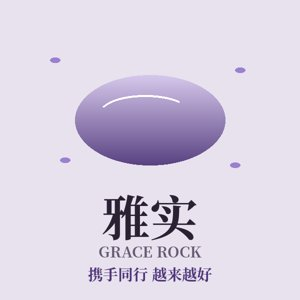
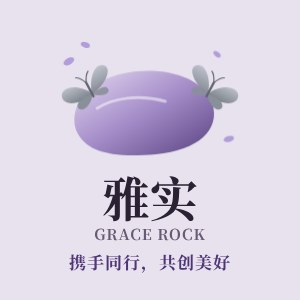
Slogan: 携手同行，共创美好 across site and share images (#48)
Claude-Session: https://claude.ai/code/session_0184zThXmo83xLtuRyd9kJgT

diff --git a/preview/index.html b/preview/index.html
@@ -3,18 +3,18 @@
 <meta property="og:type" content="website">
 <meta property="og:site_name" content="雅实 Grace Rock Group">
 <meta property="og:locale" content="zh_CN">
-<meta property="og:title" content="雅实 Grace Rock Group · 携手同行，共见美好">
+<meta property="og:title" content="雅实 Grace Rock Group · 携手同行，共创美好">
 <meta property="og:description" content="Grace 亲自体验过的好商家和亲子活动。联系合作商家时可提供推荐码 GraceRock。">
 <meta property="og:url" content="https://gracerock.com.au/preview/">
-<meta property="og:image" content="https://gracerock.com.au/preview/og-cover.jpg">
-<meta property="og:image:secure_url" content="https://gracerock.com.au/preview/og-cover.jpg">
+<meta property="og:image" content="https://gracerock.com.au/preview/og-cover.jpg?v=2">
+<meta property="og:image:secure_url" content="https://gracerock.com.au/preview/og-cover.jpg?v=2">
 <meta property="og:image:type" content="image/jpeg">
 <meta property="og:image:width" content="1200">
 <meta property="og:image:height" content="630">
 <meta property="og:image:alt" content="雅实 Grace Rock">
 <meta name="twitter:card" content="summary_large_image">
 <meta name=viewport content="width=device-width,initial-scale=1,viewport-fit=cover"><meta name="robots" content="noindex">
-<title>雅实 Grace Rock Group · 携手同行，共见美好</title><style>:root{color-scheme:light;box-sizing:border-box;padding-top:env(safe-area-inset-top,0px);padding-bottom:env(safe-area-inset-bottom,0px)}html{scroll-padding-top:env(safe-area-inset-top,0px)}body{margin:0;padding:0;font:14px -apple-system,BlinkMacSystemFont,sans-serif;background:#fff;color:#000}img{max-width:100%}[hidden]:not([hidden=until-found i]){display:none!important}</style></head><body>
+<title>雅实 Grace Rock Group · 携手同行，共创美好</title><style>:root{color-scheme:light;box-sizing:border-box;padding-top:env(safe-area-inset-top,0px);padding-bottom:env(safe-area-inset-bottom,0px)}html{scroll-padding-top:env(safe-area-inset-top,0px)}body{margin:0;padding:0;font:14px -apple-system,BlinkMacSystemFont,sans-serif;background:#fff;color:#000}img{max-width:100%}[hidden]:not([hidden=until-found i]){display:none!important}</style></head><body>
 <img src="thumb.jpg" alt="" style="display:none">
 
 <meta name="claude:viewport-fit-sides" content="cover">
@@ -248,7 +248,7 @@ h3.group .no{clip-path:none;border-radius:50%;width:34px;height:34px}
     </svg>
     <span>亲自带队</span></div>
     <h1>雅实<small>Grace Rock Group</small></h1>
-    <p class="slogan">携手同行，共见美好</p>
+    <p class="slogan">携手同行，共创美好</p>
     <p class="motto">Together We Flourish</p>
     <p class="pos"><span style="white-space:nowrap">亲自体验、亲自带队的</span><br><span style="white-space:nowrap">悉尼华人家庭生活圈</span></p>
     <p class="founder">创始人 Grace Lei Zhang</p>
@@ -256,7 +256,7 @@ h3.group .no{clip-path:none;border-radius:50%;width:34px;height:34px}
     <p class="founder" style="margin-top:10px"><a href="join.html" style="color:inherit">免费加入会员 · 商家 · 志愿者 ›</a></p>
   </header>
 
-  <section class="hc" aria-roledescription="carousel" aria-label="精选推荐"><div class="hc-track"><div class="hc-s hc-s1"><span class="k">11 月 28 日 · 周六</span><p class="big">正式开业</p><p class="sub">雅实 Grace Rock 携手同行，共见美好</p><a class="btn" href="https://wa.me/61410931872?text=%E4%BD%A0%E5%A5%BD%20Grace%EF%BC%8C%E6%88%91%E6%83%B3%E5%8F%82%E5%8A%A0%2011%20%E6%9C%88%2028%20%E6%97%A5%E9%9B%85%E5%AE%9E%E5%BC%80%E4%B8%9A%E6%B4%BB%E5%8A%A8" target="_blank" rel="noopener">预约参加</a></div><div class="hc-s hc-s2"><span class="k">免费加入</span><p class="big">加入会员</p><p class="sub">消费攒积分，多家商家通用</p><a class="btn" href="join.html">免费加入</a></div><div class="hc-s hc-s3"><span class="k">本周公益 · 11 月 21 日 周六</span><p class="big">植物展</p><p class="sub">Burwood 食虫植物展 · 9:00–15:00</p><a class="btn" href="events/plant-fair.html">看详情</a></div></div><button type="button" class="hc-arr hc-prev" aria-label="上一张">‹</button><button type="button" class="hc-arr hc-next" aria-label="下一张">›</button><div class="hc-dots"></div></section>
+  <section class="hc" aria-roledescription="carousel" aria-label="精选推荐"><div class="hc-track"><div class="hc-s hc-s1"><span class="k">11 月 28 日 · 周六</span><p class="big">正式开业</p><p class="sub">雅实 Grace Rock 携手同行，共创美好</p><a class="btn" href="https://wa.me/61410931872?text=%E4%BD%A0%E5%A5%BD%20Grace%EF%BC%8C%E6%88%91%E6%83%B3%E5%8F%82%E5%8A%A0%2011%20%E6%9C%88%2028%20%E6%97%A5%E9%9B%85%E5%AE%9E%E5%BC%80%E4%B8%9A%E6%B4%BB%E5%8A%A8" target="_blank" rel="noopener">预约参加</a></div><div class="hc-s hc-s2"><span class="k">免费加入</span><p class="big">加入会员</p><p class="sub">消费攒积分，多家商家通用</p><a class="btn" href="join.html">免费加入</a></div><div class="hc-s hc-s3"><span class="k">本周公益 · 11 月 21 日 周六</span><p class="big">植物展</p><p class="sub">Burwood 食虫植物展 · 9:00–15:00</p><a class="btn" href="events/plant-fair.html">看详情</a></div></div><button type="button" class="hc-arr hc-prev" aria-label="上一张">‹</button><button type="button" class="hc-arr hc-next" aria-label="下一张">›</button><div class="hc-dots"></div></section>
 
   <section id="events">
     <h2>近期活动</h2>

diff --git a/index.html b/index.html
@@ -1,15 +1,15 @@
 <!doctype html>
 <html><head><meta charset="utf-8">
 <meta name="viewport" content="width=device-width,initial-scale=1">
-<title>雅实 Grace Rock Group · 携手同行，共见美好</title>
+<title>雅实 Grace Rock Group · 携手同行，共创美好</title>
 <meta name="description" content="Grace 亲自体验过的好商家和亲子活动。联系合作商家时可提供推荐码 GraceRock。">
 <meta property="og:type" content="website">
 <meta property="og:site_name" content="雅实 Grace Rock Group">
 <meta property="og:locale" content="zh_CN">
-<meta property="og:title" content="雅实 Grace Rock Group · 携手同行，共见美好">
+<meta property="og:title" content="雅实 Grace Rock Group · 携手同行，共创美好">
 <meta property="og:description" content="Grace 亲自体验过的好商家和亲子活动。联系合作商家时可提供推荐码 GraceRock。">
-<meta property="og:image" content="https://gracerock.com.au/preview/og-cover.jpg">
-<meta property="og:image:secure_url" content="https://gracerock.com.au/preview/og-cover.jpg">
+<meta property="og:image" content="https://gracerock.com.au/preview/og-cover.jpg?v=2">
+<meta property="og:image:secure_url" content="https://gracerock.com.au/preview/og-cover.jpg?v=2">
 <meta property="og:image:type" content="image/jpeg">
 <meta property="og:image:width" content="1200">
 <meta property="og:image:height" content="630">
@@ -19,4 +19,4 @@
 <link rel="canonical" href="https://gracerock.com.au/preview/">
 <meta http-equiv="refresh" content="0; url=preview/">
 <script>location.replace("preview/"+location.search+location.hash);</script>
-</head><body><p><a href="preview/">雅实 Grace Rock Group · 携手同行，共见美好</a></p></body></html>
+</head><body><p><a href="preview/">雅实 Grace Rock Group · 携手同行，共创美好</a></p></body></html>

diff --git a/preview/events/jingxin-spring.html b/preview/events/jingxin-spring.html
@@ -9,7 +9,7 @@
 <meta property="og:title" content="蓝花楹下 · 心聚同行｜静心学堂春日户外团建">
 <meta property="og:description" content="11月8日（周日）10:30–15:30，Parramatta Park Wistaria Gardens。和 Grace 一起去。">
 <meta property="og:url" content="https://gracerock.com.au/preview/events/jingxin-spring.html">
-<meta property="og:image" content="https://gracerock.com.au/preview/og-cover.jpg">
+<meta property="og:image" content="https://gracerock.com.au/preview/og-cover.jpg?v=2">
 <meta name="viewport" content="width=device-width, initial-scale=1, viewport-fit=cover">
 <title>蓝花楹下 · 心聚同行｜静心学堂春日户外团建</title>
 <style>
@@ -61,7 +61,7 @@ details ul{margin:6px 0 0;padding-left:18px;color:var(--sub);font-size:14px;line
     <a class="btn" href="https://wa.me/61410931872?text=%E4%BD%A0%E5%A5%BD%20Grace%EF%BC%8C%E6%88%91%E6%83%B3%E5%92%8C%E4%BD%A0%E4%B8%80%E8%B5%B7%E5%8F%82%E5%8A%A0%2011%E6%9C%888%E6%97%A5%EF%BC%88%E5%91%A8%E6%97%A5%EF%BC%89%E9%9D%99%E5%BF%83%E5%AD%A6%E5%A0%82%E8%93%9D%E8%8A%B1%E6%A5%B9%E5%9B%A2%E5%BB%BA%E6%B4%BB%E5%8A%A8%EF%BC%88Grace%20Rock%20%E6%8E%A8%E8%8D%90%EF%BC%89%E3%80%82%E6%88%91%E4%BB%AC%20__%20%E4%BA%BA%E3%80%82" target="_blank" rel="noopener">和 Grace 一起去 · WhatsApp</a>
     <p style="font-size:13px;margin-top:10px">报名时请告知您由 Grace Rock 推荐。</p>
   </div>
-  <footer>© Grace Rock Group · 携手同行，共见美好</footer>
+  <footer>© Grace Rock Group · 携手同行，共创美好</footer>
 </main>
 </body>
 </html>

diff --git a/preview/en.html b/preview/en.html
@@ -6,8 +6,8 @@
 <meta property="og:title" content="Grace Rock Group · Together We Flourish">
 <meta property="og:description" content="Local businesses Grace has tried herself, plus family adventures. Mention referral code GraceRock when contacting our partners.">
 <meta property="og:url" content="https://gracerock.com.au/preview/en.html">
-<meta property="og:image" content="https://gracerock.com.au/preview/og-cover.jpg">
-<meta property="og:image:secure_url" content="https://gracerock.com.au/preview/og-cover.jpg">
+<meta property="og:image" content="https://gracerock.com.au/preview/og-cover.jpg?v=2">
+<meta property="og:image:secure_url" content="https://gracerock.com.au/preview/og-cover.jpg?v=2">
 <meta property="og:image:type" content="image/jpeg">
 <meta property="og:image:width" content="1200">
 <meta property="og:image:height" content="630">
@@ -251,7 +251,7 @@ h3.group .no{clip-path:none;border-radius:50%;width:34px;height:34px}
     <span>Led in person</span></div>
     <h1 class="en-brand">Grace Rock Group<small>雅实</small></h1>
     <p class="slogan">Together We Flourish</p>
-    <p class="motto">携手同行，共见美好</p>
+    <p class="motto">携手同行，共创美好</p>
     <p class="pos">A Sydney family community, with every experience tried and led by Grace Lei Zhang</p>
     <p class="founder">Founder: Grace Lei Zhang</p>
     <div class="acts"><a class="pri" href="#events">Upcoming events</a><a href="#partners">Find a recommended business</a><a href="#contact">Business enquiries</a></div>

diff --git a/preview/join.html b/preview/join.html
@@ -9,7 +9,7 @@
 <meta property="og:title" content="加入雅实 · 会员规则">
 <meta property="og:description" content="免费加入雅实 Grace Rock：做会员、做合作商家或做志愿者。积分只来自真实消费，规则全部公开。">
 <meta property="og:url" content="https://gracerock.com.au/preview/join.html">
-<meta property="og:image" content="https://gracerock.com.au/preview/og-cover.jpg">
+<meta property="og:image" content="https://gracerock.com.au/preview/og-cover.jpg?v=2">
 <meta name="viewport" content="width=device-width, initial-scale=1, viewport-fit=cover">
 <title>加入雅实 · 会员规则</title>
 <style>
@@ -76,7 +76,7 @@ footer{text-align:center;font-size:13px;color:var(--sub);margin-top:32px}
     <p class="brand">雅实 GRACE ROCK GROUP</p>
   </div>
   <h1>加入雅实</h1>
-  <p class="lead">携手同行，共见美好。免费加入，规则全部公开。</p>
+  <p class="lead">携手同行，共创美好。免费加入，规则全部公开。</p>
   <p style="text-align:center"><span class="trial">会员积分 · 试运行中</span></p>
 
   <h2>1. 选择你的身份</h2>
@@ -155,7 +155,7 @@ footer{text-align:center;font-size:13px;color:var(--sub);margin-top:32px}
     </form>
   </div>
 
-  <footer>雅实 Grace Rock Group · 携手同行，共见美好<br><a href="./">返回首页</a></footer>
+  <footer>雅实 Grace Rock Group · 携手同行，共创美好<br><a href="./">返回首页</a></footer>
 </main>
 <script>
 (function(){

diff --git a/preview/partners/wooof.html b/preview/partners/wooof.html
@@ -12,8 +12,8 @@
 <meta property="og:title" content="WOOOF Dog Grooming · 雅实 Grace Rock 推荐">
 <meta property="og:description" content="WOOOF Dog Grooming：Surry Hills 精品狗狗美容，全犬种全体型，天然产品、低压力环境。专属优惠码 REF-QKSR5Q，首次美容享优惠。">
 <meta property="og:url" content="https://gracerock.com.au/preview/partners/wooof.html">
-<meta property="og:image" content="https://gracerock.com.au/preview/og-cover.jpg">
-<meta property="og:image:secure_url" content="https://gracerock.com.au/preview/og-cover.jpg">
+<meta property="og:image" content="https://gracerock.com.au/preview/og-cover.jpg?v=2">
+<meta property="og:image:secure_url" content="https://gracerock.com.au/preview/og-cover.jpg?v=2">
 <meta property="og:image:type" content="image/jpeg">
 <meta property="og:image:width" content="1200">
 <meta property="og:image:height" content="630">
@@ -163,7 +163,7 @@ footer b{color:var(--gold)}
 </section>
 
 <footer>
-  <b>雅实 Grace Rock Group</b> · 携手同行，共见美好<br>
+  <b>雅实 Grace Rock Group</b> · 携手同行，共创美好<br>
   Grace Rock 推荐伙伴 · 推荐关系已公开
   <div class="disc">Manuka 店位于堪培拉。服务和价格请以 WOOOF 官网为准。</div>
 </footer>

diff --git a/preview/stories/monkey-king.html b/preview/stories/monkey-king.html
@@ -9,7 +9,7 @@
 <meta property="og:title" content="台下空空荡荡，他演了14年 · 云南美猴王">
 <meta property="og:description" content="云南丽江小伙「小圣」和铃铎，从小喜欢美猴王，在街头演了14年，边演边读大学。">
 <meta property="og:url" content="https://gracerock.com.au/preview/stories/monkey-king.html">
-<meta property="og:image" content="https://gracerock.com.au/preview/og-cover.jpg">
+<meta property="og:image" content="https://gracerock.com.au/preview/og-cover.jpg?v=2">
 <meta name="viewport" content="width=device-width, initial-scale=1, viewport-fit=cover">
 <title>台下空空荡荡，他演了14年 · 云南美猴王</title>
 <style>
@@ -86,7 +86,7 @@ a{color:var(--accent)}
     <p style="font-size:14px;margin-top:8px">文字资料来自云南日报报道（2026年11月6日）：<a href="https://www.sina.cn/weibo/detail/5362230094725754.html" target="_blank" rel="noopener">《台下空空荡荡，他演了14年》›</a></p>
     <p style="font-size:13px;margin-top:8px">本页为公益分享，Grace Rock 无任何商业收益。</p>
   </div>
-  <footer>© Grace Rock Group · 携手同行，共见美好</footer>
+  <footer>© Grace Rock Group · 携手同行，共创美好</footer>
 </main>
 </body>
 </html>

diff --git a/preview/partners/tj-academy.html b/preview/partners/tj-academy.html
@@ -12,8 +12,8 @@
 <meta property="og:title" content="TJ Academy 胡老师 · 雅实 Grace Rock 推荐">
 <meta property="og:description" content="TJ Academy 胡老师：2014 年起专注写作、OC 和精英中学考试辅导，一对一与小组课，线上线下结合。Chatswood。">
 <meta property="og:url" content="https://gracerock.com.au/preview/partners/tj-academy.html">
-<meta property="og:image" content="https://gracerock.com.au/preview/og-cover.jpg">
-<meta property="og:image:secure_url" content="https://gracerock.com.au/preview/og-cover.jpg">
+<meta property="og:image" content="https://gracerock.com.au/preview/og-cover.jpg?v=2">
+<meta property="og:image:secure_url" content="https://gracerock.com.au/preview/og-cover.jpg?v=2">
 <meta property="og:image:type" content="image/jpeg">
 <meta property="og:image:width" content="1200">
 <meta property="og:image:height" content="630">
@@ -159,7 +159,7 @@ footer b{color:var(--gold)}
 </section>
 
 <footer>
-  <b>雅实 Grace Rock Group</b> · 携手同行，共见美好<br>
+  <b>雅实 Grace Rock Group</b> · 携手同行，共创美好<br>
   只推荐我亲自体验过的好商家
   <div class="disc">课程内容、时间和收费以 TJ Academy 最终确认为准。</div>
 </footer>

diff --git a/preview/chatbot.js b/preview/chatbot.js
@@ -78,7 +78,7 @@ const KB=[
   en:'The Soul & Art section has art, life stories, memorials and a community novel project.',
   a:[M(5)]},
  {k:['雅实','grace rock','宗旨','是什么','介绍','关于','about','what is grace rock'],
-  zh:'雅实 Grace Rock Group：携手同行，共见美好。这里推荐的商家，都是 Grace 亲身体验过的，分成健康、人与自然、人与人、人与科技、人与 Soul · Art 五个板块。',
+  zh:'雅实 Grace Rock Group：携手同行，共创美好。这里推荐的商家，都是 Grace 亲身体验过的，分成健康、人与自然、人与人、人与科技、人与 Soul · Art 五个板块。',
   en:'Grace Rock Group: everyone deserves to keep getting better. Every business here is one Grace has tried herself, in five sections: Health, Nature, Connection, Tech & AI, and Soul & Art.',
   a:[M(1),M(2),M(3)]},
  {k:['联系','微信','电话','找grace','grace','contact','wechat','phone','email'],

diff --git a/preview/partners/wooof-en.html b/preview/partners/wooof-en.html
@@ -12,8 +12,8 @@
 <meta property="og:title" content="WOOOF Dog Grooming · Recommended by Grace Rock">
 <meta property="og:description" content="WOOOF Dog Grooming: premium boutique grooming in Surry Hills for all breeds and sizes, natural products, low-stress care. Promo code REF-QKSR5Q for a discount on your first groom.">
 <meta property="og:url" content="https://gracerock.com.au/preview/partners/wooof-en.html">
-<meta property="og:image" content="https://gracerock.com.au/preview/og-cover.jpg">
-<meta property="og:image:secure_url" content="https://gracerock.com.au/preview/og-cover.jpg">
+<meta property="og:image" content="https://gracerock.com.au/preview/og-cover.jpg?v=2">
+<meta property="og:image:secure_url" content="https://gracerock.com.au/preview/og-cover.jpg?v=2">
 <meta property="og:image:type" content="image/jpeg">
 <meta property="og:image:width" content="1200">
 <meta property="og:image:height" content="630">

diff --git a/preview/partners/tj-academy-en.html b/preview/partners/tj-academy-en.html
@@ -12,8 +12,8 @@
 <meta property="og:title" content="TJ Academy · Ms Hu · Recommended by Grace Rock">
 <meta property="og:description" content="TJ Academy with Ms Hu (胡老师): writing, OC and selective school tutoring since 2014. One-on-one and small groups, online and in person. Chatswood.">
 <meta property="og:url" content="https://gracerock.com.au/preview/partners/tj-academy-en.html">
-<meta property="og:image" content="https://gracerock.com.au/preview/og-cover.jpg">
-<meta property="og:image:secure_url" content="https://gracerock.com.au/preview/og-cover.jpg">
+<meta property="og:image" content="https://gracerock.com.au/preview/og-cover.jpg?v=2">
+<meta property="og:image:secure_url" content="https://gracerock.com.au/preview/og-cover.jpg?v=2">
 <meta property="og:image:type" content="image/jpeg">
 <meta property="og:image:width" content="1200">
 <meta property="og:image:height" content="630">

diff --git a/en.html b/en.html
@@ -8,8 +8,8 @@
 <meta property="og:locale" content="en_AU">
 <meta property="og:title" content="Grace Rock Group · Together We Flourish">
 <meta property="og:description" content="Local businesses Grace has tried herself, plus family adventures. Mention referral code GraceRock when contacting our partners.">
-<meta property="og:image" content="https://gracerock.com.au/preview/og-cover.jpg">
-<meta property="og:image:secure_url" content="https://gracerock.com.au/preview/og-cover.jpg">
+<meta property="og:image" content="https://gracerock.com.au/preview/og-cover.jpg?v=2">
+<meta property="og:image:secure_url" content="https://gracerock.com.au/preview/og-cover.jpg?v=2">
 <meta property="og:image:type" content="image/jpeg">
 <meta property="og:image:width" content="1200">
 <meta property="og:image:height" content="630">
